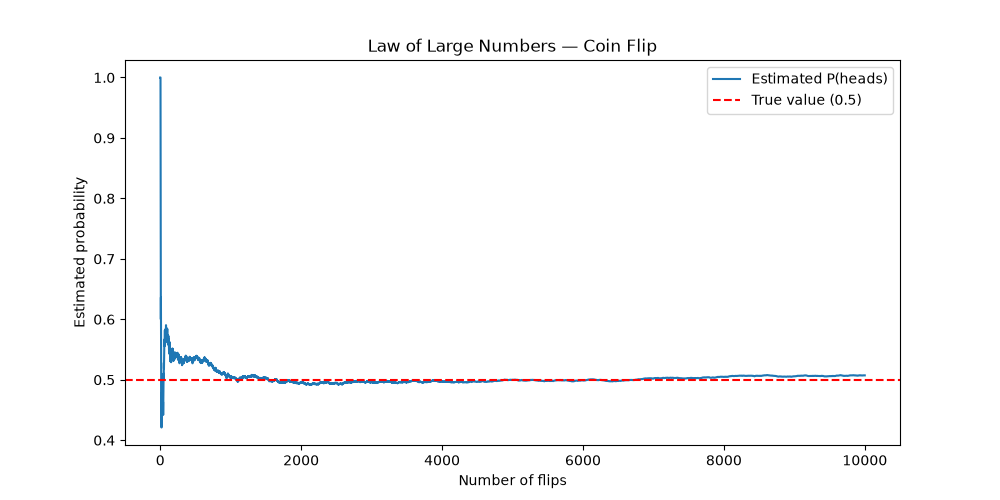
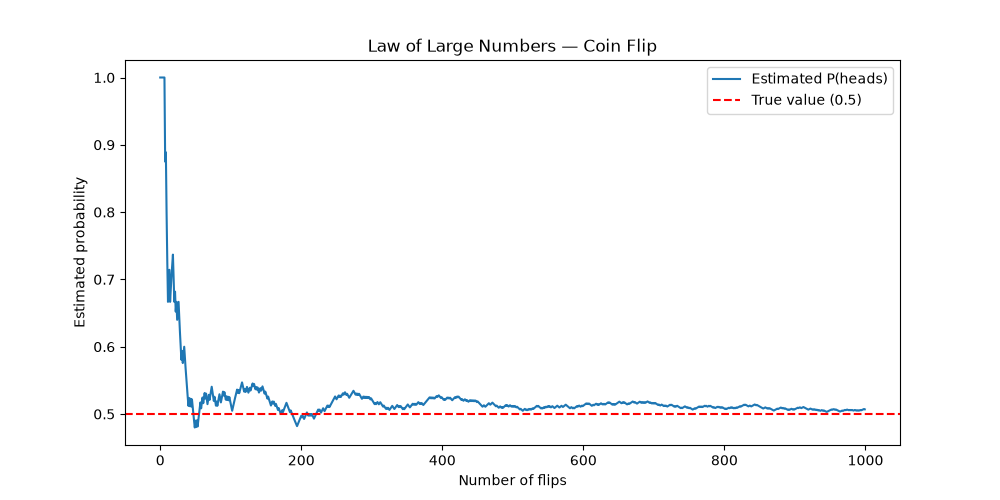
Stage 1: add dice roll simulation

diff --git a/stage1_law_of_large_numbers.py b/stage1_law_of_large_numbers.py
@@ -1,12 +1,11 @@
 import numpy as np
 import matplotlib.pyplot as plt
 
-# Simulate coin flips and track running estimate of P(heads)
-n = 10000
-flips = np.random.choice([0, 1], size=n)
-running_estimate = np.cumsum(flips) / np.arange(1, n + 1)
+n = 1000  # Number of samples
 
-# Plot
+flips = np.random.choice([0, 1], size=n)  # Simulate n  coin flips (0 = tails, 1 = heads)
+running_estimate = np.cumsum(flips) / np.arange(1, n + 1)  # Calculate the running estimate of the probability of heads
+
 plt.figure(figsize=(10, 5))
 plt.plot(running_estimate, label='Estimated P(heads)')
 plt.axhline(y=0.5, color='red', linestyle='--', label='True value (0.5)')
@@ -17,4 +16,23 @@ plt.legend()
 plt.savefig('stage1_coin.png')
 plt.show()
 
-print(f"Final estimate after {n} flips: {running_estimate[-1]:.4f}")
+
+
+
+
+
+k=1000 # number of rolls of dice
+rolls = np.random.randint(1, 7, size=k)
+number_of_rolls_1 = np.cumsum(rolls == 1)  # Calculate the number of times a 1 is rolled
+running_estimate_dice = number_of_rolls_1/np.arange(1, k + 1)  #Calculate the running estimate of the average roll
+
+plt.figure(figsize=(10, 5))
+plt.plot(running_estimate_dice, label='Estimated Average Roll')
+plt.axhline(y=1/6, color='red', linestyle='--', label
+='True value (1/6)')
+plt.xlabel('Number of rolls')
+plt.ylabel('Estimated average')
+plt.title('Law of Large Numbers — Dice Roll')
+plt.legend()
+plt.savefig('stage1_dice.png')
+plt.show()